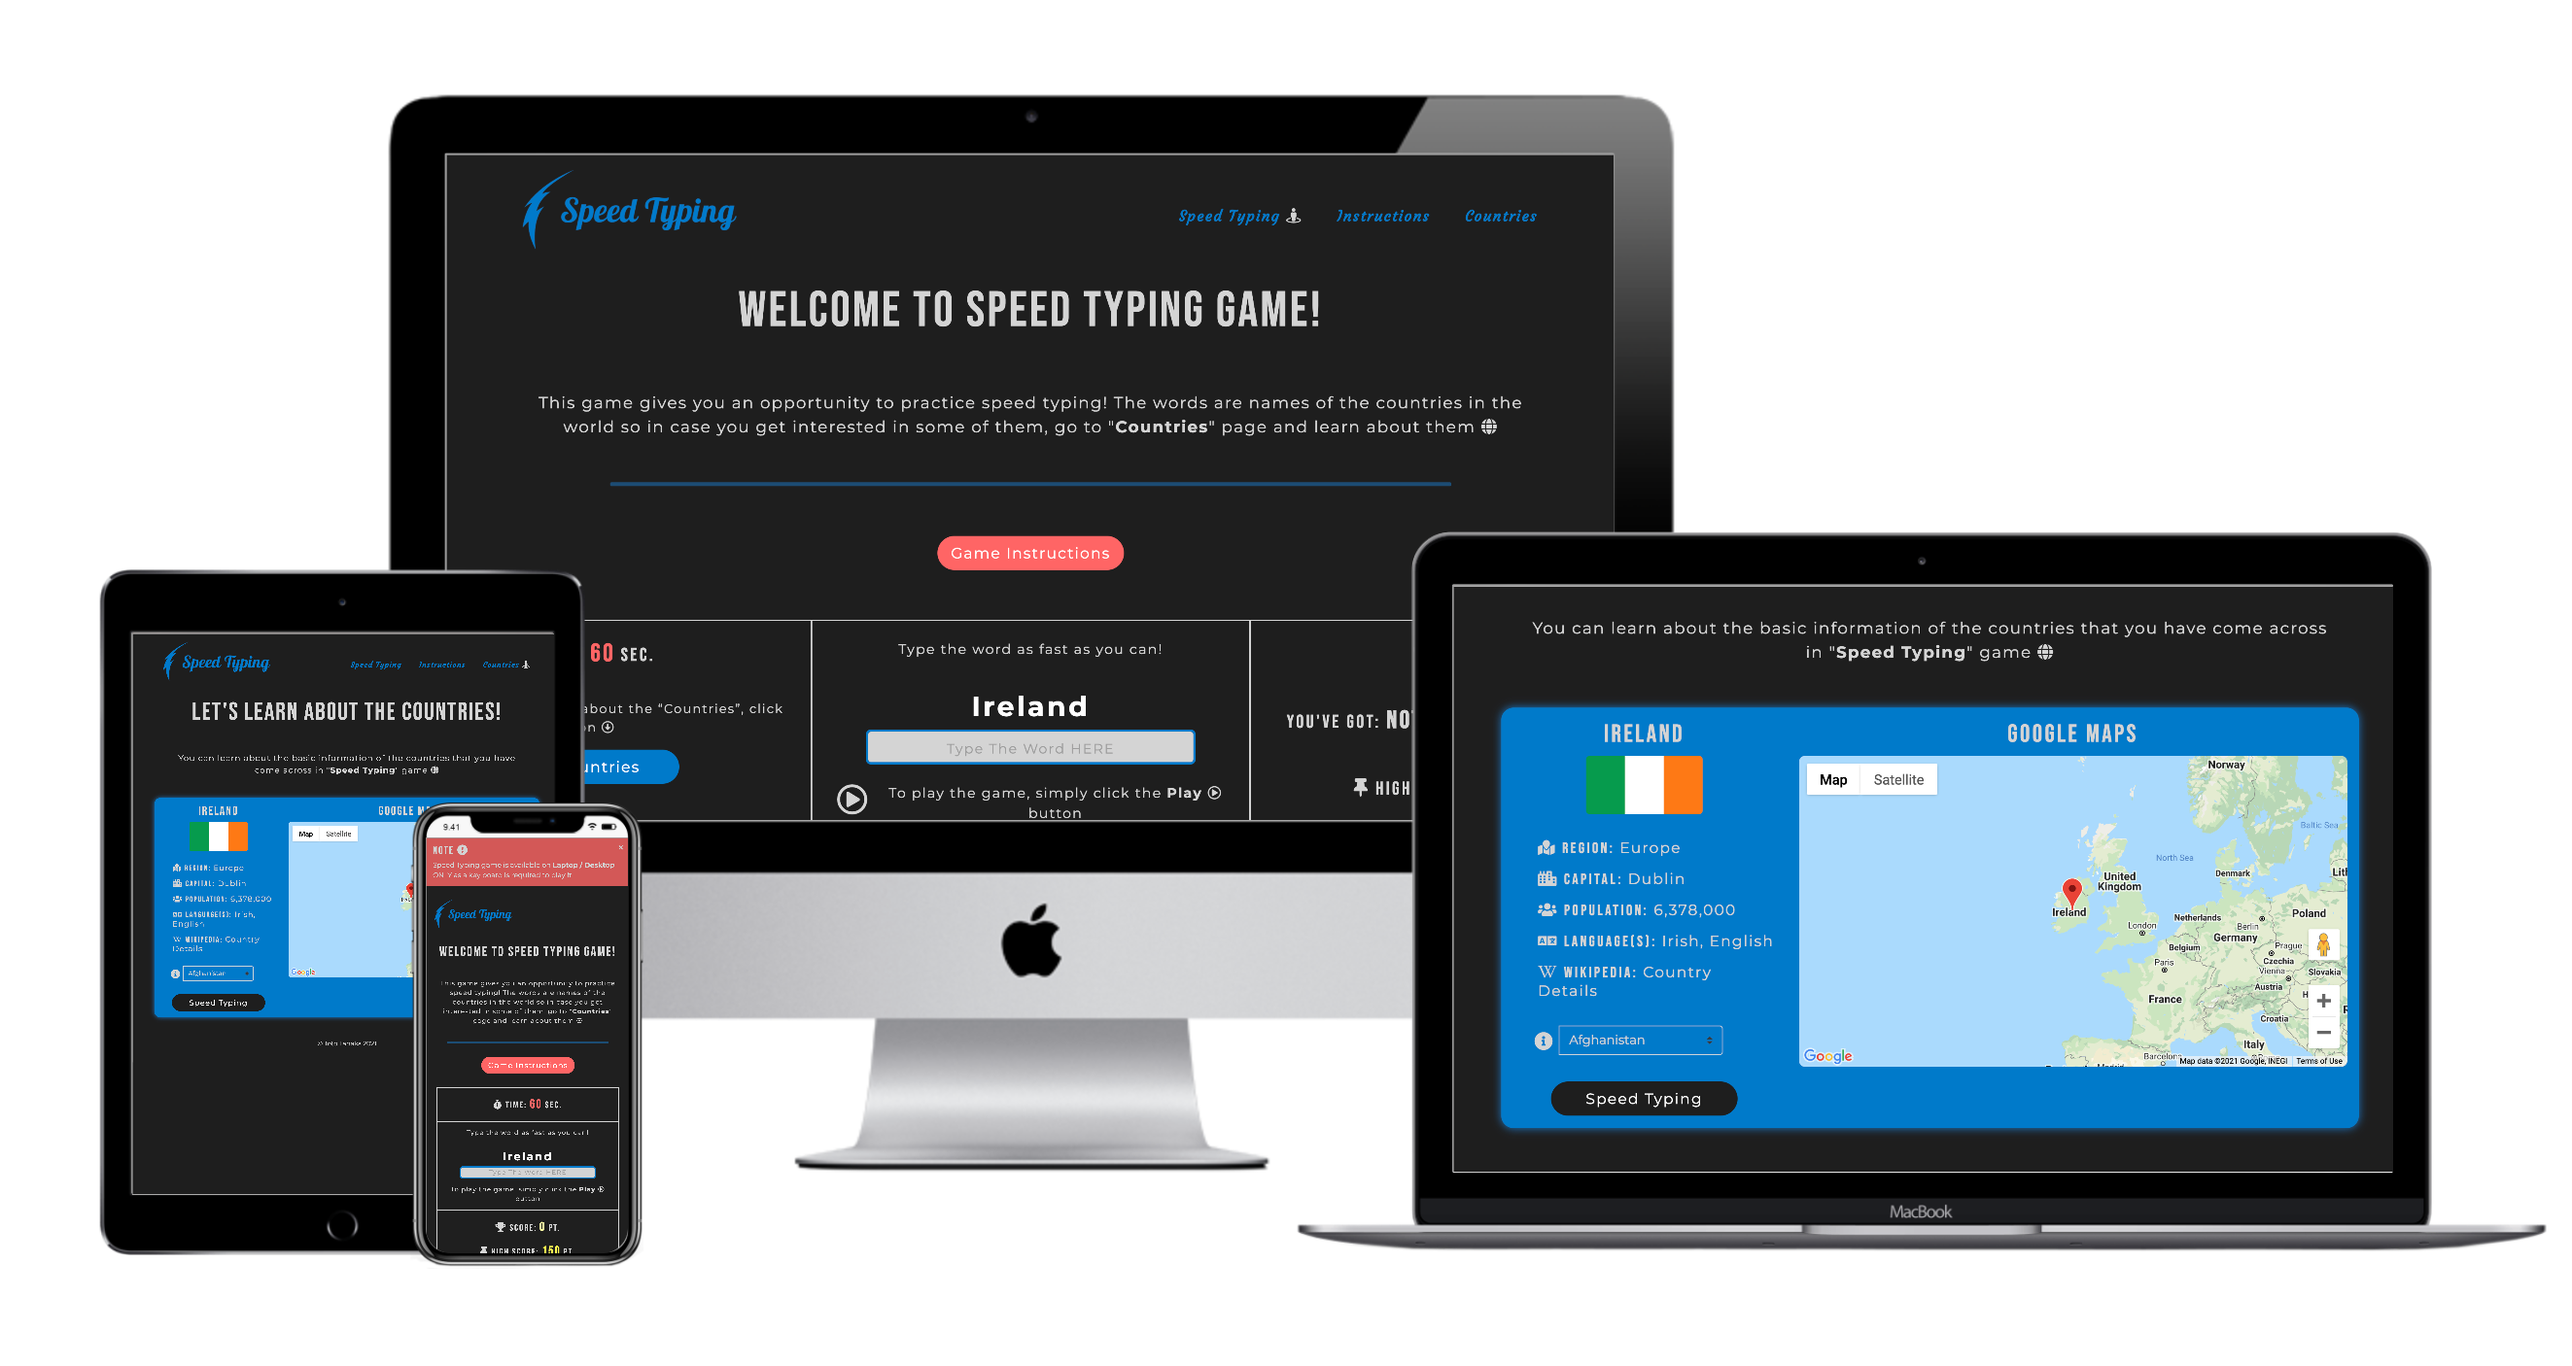
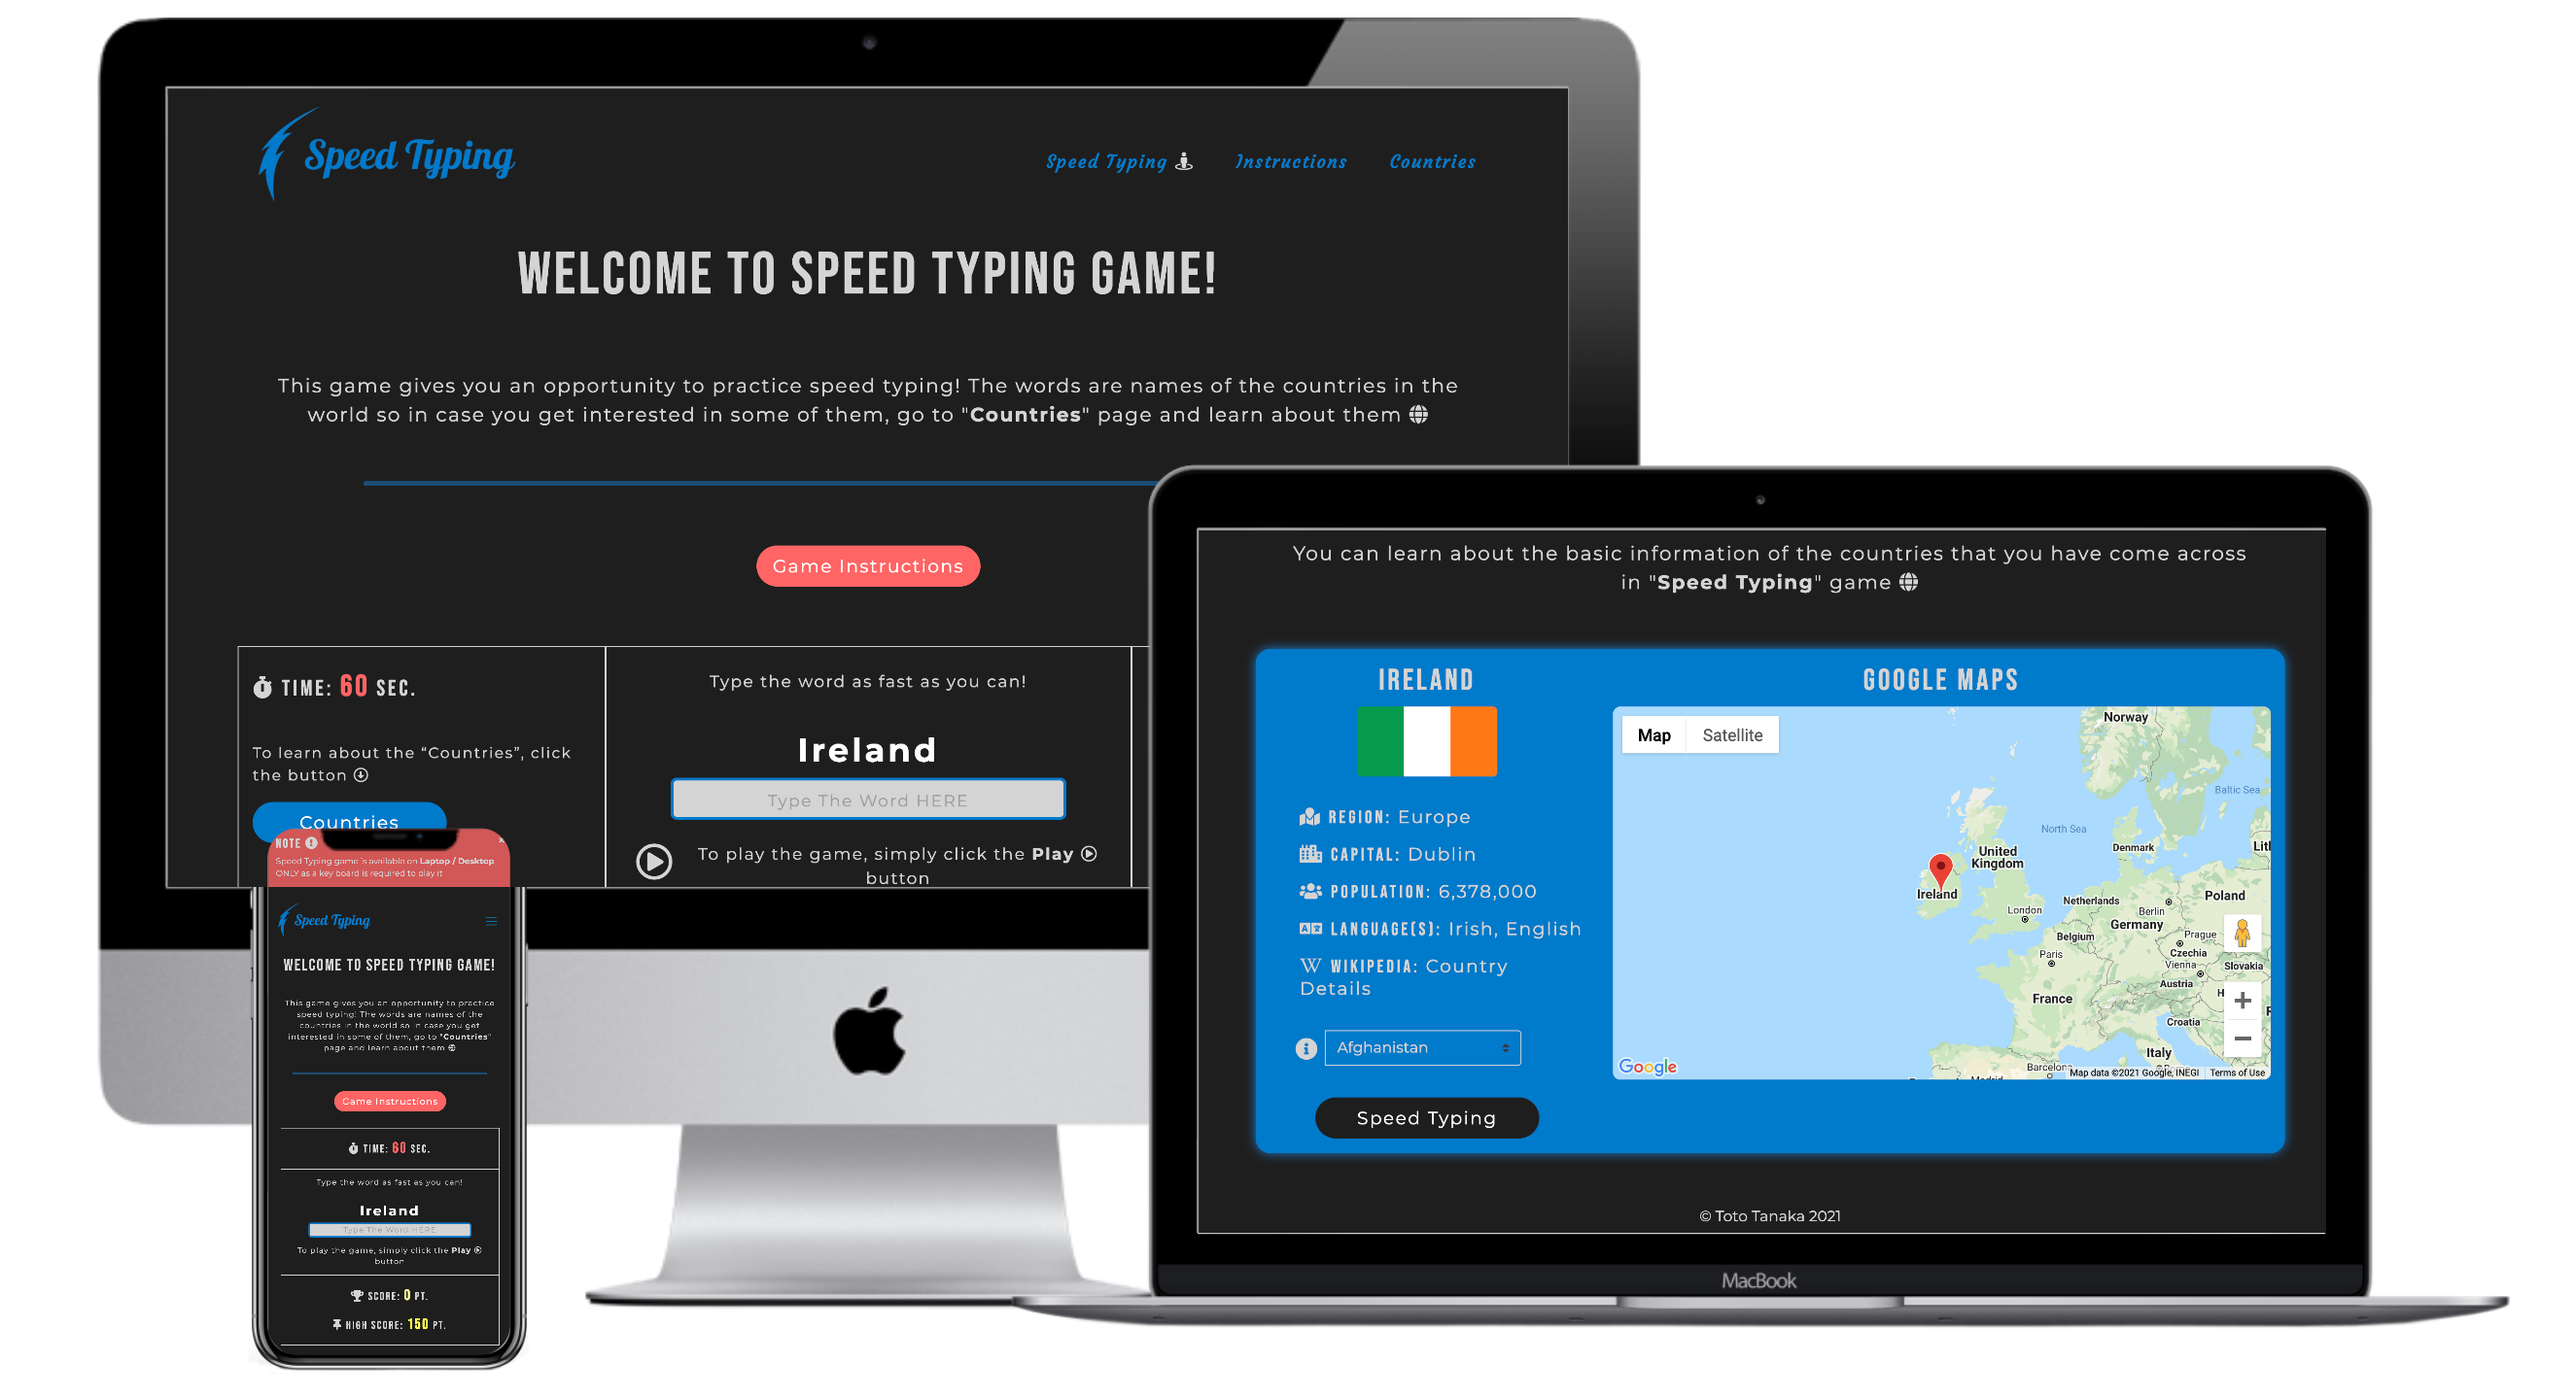
Update mockup image on README.md

diff --git a/assets/css/style.css b/assets/css/style.css
@@ -535,7 +535,7 @@ footer {
 }
 
 /* -------------------- Media Query: Screen Size Bigger Than 62rem / 992px -------------------- */
-@media only screen and (min-width: 69rem) {
+@media only screen and (min-width: 62rem) {
 
   body {
     margin: 0 auto;

diff --git a/README.md b/README.md
@@ -4,7 +4,7 @@
 This is a website of a speed typing game with an additional function that users can learn about information of the countries. I create this for **Milestone Project 2 (Interactive Frontend Development), Full Stack Software Development** in **[Code Institute](https://codeinstitute.net/)**, Ireland.  
 
 It is a mobile responsive website however the speed typing game can be played on a laptop or desktop only as a keyboard is required. The link to the website is available **[HERE](https://toto-kotaro-tanaka.github.io/ms2-speed-typing-game/)**.
-
+<br>
 ![image](https://github.com/Toto-Kotaro-Tanaka/ms2-speed-typing-game/blob/main/assets/readme/mockup/mockup.png)
 
 ## TABLE OF CONTENTS <a name="table-of-contents"></a>
